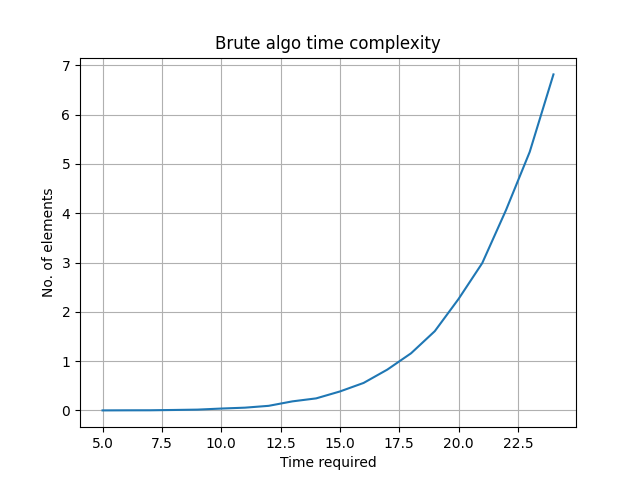
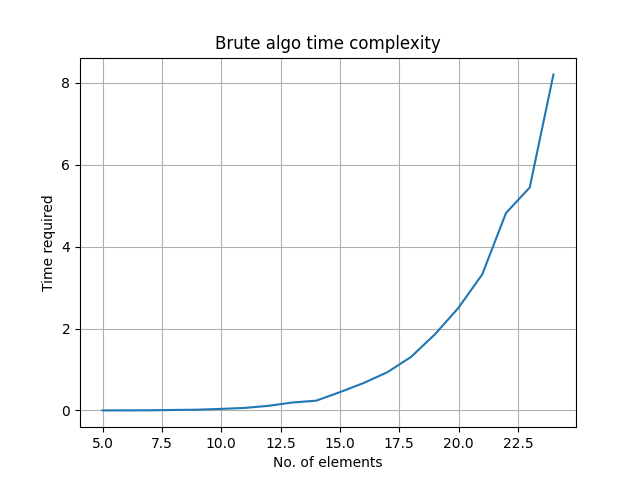
refined version graham + update in time complexity analysis for plots

diff --git a/src/complexity.py b/src/complexity.py
@@ -4,6 +4,8 @@ import matplotlib.pyplot as plt
 import brute as b
 import jarvis as j
 import graham as g
+import dandc as d
+
 
 def random_points(points, n):
     randomx = []
@@ -16,58 +18,99 @@ def random_points(points, n):
         points.append(Point(x, y))
 
 
-def time_complexity(k):
+def time_complexity(k_brute, k_divide, k):
     points = []
     times_brute = []
+    times_divide = []
     times_jarvis = []
     times_graham = []
     n = []
+    n_brute = []
+    n_divide = []
 
-    for i in range(5,k+5):
-        n.append(i)
+    for i in range(5,k_brute+5):
+        n_brute.append(i)
         random_points(points, i)
-        print(i-4)
+
+        print("------")
         # Brute
         tic = time.perf_counter()
         b.convex_hull(points, len(points))
         toc = time.perf_counter()
         times_brute.append(toc-tic)
+        print("------")
+        
+        print(i-4)
 
+    for i in range(5,k_divide+5):
+        n_divide.append(i)
+        random_points(points, i)
+
+        print("------")
+        # Divide and conquer
+        tic = time.perf_counter()
+        d.convex_hull(points,len(points),8)
+        toc = time.perf_counter()
+        times_divide.append(toc-tic)
+        print("------")
+        
+        print(i-4)
+
+    for i in range(5,k+5):
+        n.append(i)
+        random_points(points, i)
+
+        print("------")
         # Jarvis
         tic = time.perf_counter()
         j.convex_hull(points, len(points))
         toc = time.perf_counter()
         times_jarvis.append(toc-tic)
 
-        # Graham
+        # Graham O(nlogn)
         tic = time.perf_counter()
         g.convex_hull(points)
         toc = time.perf_counter()
         times_graham.append(toc-tic)
+        print("------")
+        
+        print(i-4)
+    
+    return n_brute, n_divide, n, times_brute, times_divide, times_jarvis, times_graham
 
-    return n, times_brute, times_jarvis, times_graham
 
 
+n_brute, n_divide, n, times_brute, times_divide, times_jarvis, times_graham = time_complexity(20,90,90)
 
-n, times_brute, times_jarvis, times_graham = time_complexity(20)
-
-
-# Plot brute algo
+# Plot brute algo ------------------
 fig, ax = plt.subplots()
-ax.plot(n,times_brute)
+ax.plot(n_brute,times_brute)
 
-ax.set(xlabel='Time required', ylabel='No. of elements',
+ax.set(xlabel='No. of elements', ylabel='Time required',
        title='Brute algo time complexity')
 ax.grid()
 
 fig.savefig("brute.png")
 plt.show()
 
-# Plot Jarvis algo
+
+# Plot Div&Conq algo ------------------
+fig, ax = plt.subplots()
+ax.plot(n_divide,times_divide)
+
+ax.set(xlabel='No. of elements', ylabel='Time required',
+       title='Divide and Conquer algo time complexity')
+ax.grid()
+
+fig.savefig("div&conq.png")
+plt.show()
+
+
+# Plot Jarvis algo ------------------
 fig, ax = plt.subplots()
 ax.plot(n,times_jarvis)
 
-ax.set(xlabel='Time required', ylabel='No. of elements',
+ax.set(xlabel='No. of elements', ylabel='Time required',
        title='Jarvis algo time complexity')
 ax.grid()
 
@@ -75,11 +118,11 @@ fig.savefig("jarvis.png")
 plt.show()
 
 
-# Plot Graham algo
+# Plot Graham algo ------------------
 fig, ax = plt.subplots()
 ax.plot(n,times_graham)
 
-ax.set(xlabel='Time required', ylabel='No. of elements',
+ax.set(xlabel='No. of elements', ylabel='Time required',
        title='Graham algo time complexity')
 ax.grid()
 

diff --git a/src/graham.py b/src/graham.py
@@ -38,6 +38,11 @@ def lowest_y(points):
 
     return points[minind], minind
 
+def euc_dist(p0,p1,p2):
+    d1=math.sqrt((p1.x-p0.x)**2 + (p1.y-p0.y)**2)
+    d2=math.sqrt((p2.x-p0.x)**2 + (p2.y-p0.y)**2)
+    return d1, d2
+
 """
 # 2. sort points by polar angle with P0, if several points have the same polar angle then only keep the farthest
 """
@@ -47,21 +52,14 @@ def polar_angle_sort(points,p0):
     sorted_points = []
     #calculate the polar angle with p0 for all points
     for i,point in enumerate(points):
-        vec_x=point.x-p0.x
-        vec_y=point.y-p0.y
-        #keeping index to find initial points
-        sorted_angle[i] = math.atan2(vec_y, vec_x) 
-        #if we find colinear vectors, we calculate lenght and choose farthest
-        if i >= 1:
-            if sorted_angle.get(i) == sorted_angle.get(i-1):
-                d1=math.sqrt(points[i-1].x**2 + points[i-1].y**2)
-                d2=math.sqrt(points[i].x**2 + points[i].y**2)
-                indice_p1=i-1
-                indice_p2=i
-                if d1>d2:
-                    sorted_angle.pop(indice_p2)
-                elif d1<=d2:
-                    sorted_angle.pop(indice_p1)
+        if point == p0:
+            pass
+        else:
+            vec_x=point.x-p0.x
+            vec_y=point.y-p0.y
+            #keeping index to find initial points
+            sorted_angle[i] = math.atan2(vec_y, vec_x) 
+
 
     #sort angles (gives a list)
     sorted_angle=sorted(sorted_angle.items(), key=lambda x: x[1], reverse=False)
@@ -73,6 +71,14 @@ def polar_angle_sort(points,p0):
     #sort points with sorted index
     for i,index in enumerate(sorted_index):
         sorted_points.append(points[index])
+
+    # We remove collinear points with p0 and keep only furthest
+    coll_points = []
+    for i in range(len(sorted_points) - 1):
+        d = p0.direction(sorted_points[i],sorted_points[i+1])
+        if d == 0:
+            coll_points.append(i)
+    sorted_points = [i for j, i in enumerate(sorted_points) if j not in coll_points]
 
     return sorted_points
 
@@ -102,29 +108,31 @@ def convex_hull(points):
         while True:
             direction = convex_hull[m-2].direction(convex_hull[m-1],points[i])
             if direction > 0:
-                break
+                break            
             else:
                 convex_hull.pop()
                 m -= 1
         convex_hull.append(points[i])
         m += 1
-    
-
+    '''
+    for i,p in enumerate(convex_hull):
+        print(p)
+    '''
     toc = time.perf_counter()
     print("Processing time for Graham scan convex hull: " + str(toc-tic) + " seconds")
     return convex_hull  # This needs to be an index of points
 
 
-#points = [] 
-#points.append(Point(0, 3)) 
-#points.append(Point(2, 2)) 
-#points.append(Point(1, 1)) 
-#points.append(Point(2, 1)) 
-#points.append(Point(3, 3)) 
-#points.append(Point(0, 0)) 
-#points.append(Point(3, 0))          
+points = [] 
+points.append(Point(0, 3)) 
+points.append(Point(2, 2)) 
+points.append(Point(1, 1)) 
+points.append(Point(2, 1)) 
+points.append(Point(3, 3)) 
+points.append(Point(0, 0)) 
+points.append(Point(3, 0))     
 
 
 
 
-#print(convex_hull(points))
+print(convex_hull(points))
